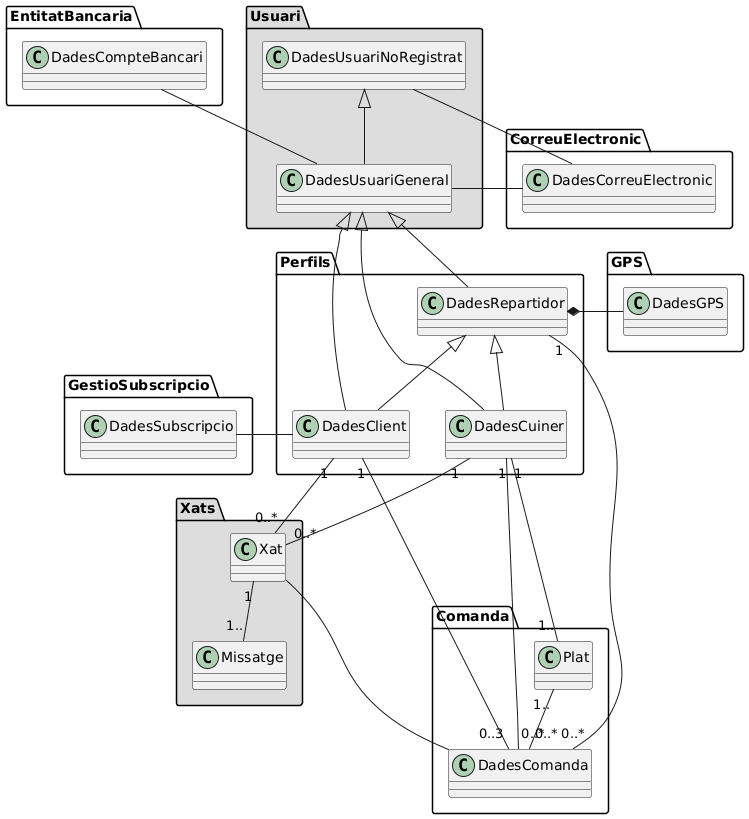
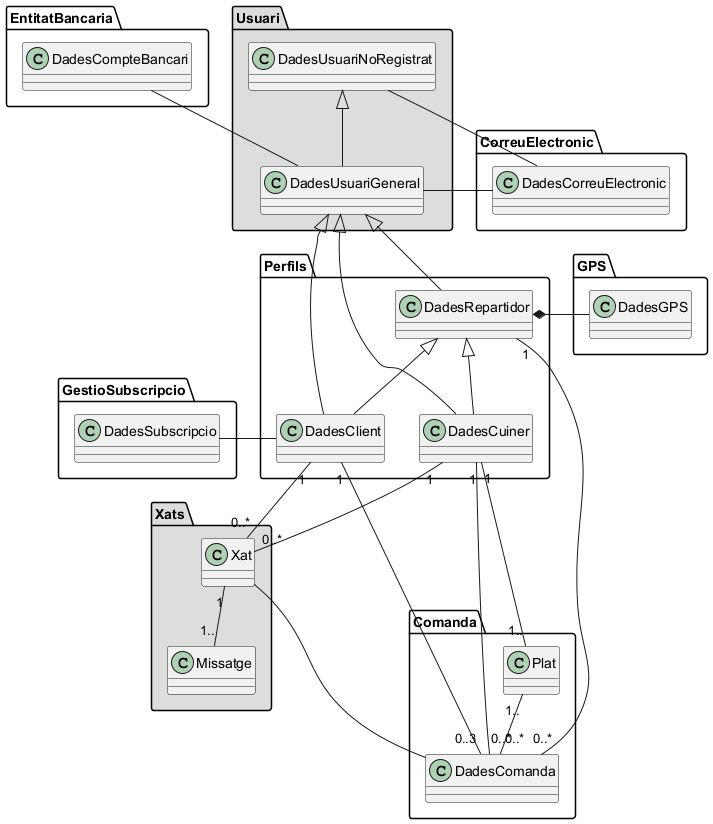
Diagrama Classes General fet

diff --git a/documents/Diagrames/Classes/GENERAL/DC General 2.5.md b/documents/Diagrames/Classes/GENERAL/DC General 2.5.md
@@ -16,7 +16,6 @@ class DadesClient
 }
 
 namespace Comanda {
-class Ingredient
 class Plat
 class DadesComanda
 }
@@ -26,11 +25,22 @@ namespace Xats {
 class Xat
 }
 class Missatge
-} 
+}
+
+namespace GestioSubscripcio {
+class DadesSubscripcio
+}
 
 namespace Usuari{
 class DadesUsuariGeneral
 }
+
+namespace CorreuElectronic {
+class DadesCorreuElectronic
+}
+
+DadesClient -left- DadesSubscripcio
+
 
 DadesUsuariGeneral <|-down- DadesRepartidor
 DadesUsuariGeneral <|-down- DadesCuiner
@@ -38,13 +48,16 @@ DadesUsuariGeneral <|-down- DadesClient
 DadesRepartidor <|-down- DadesClient
 DadesRepartidor <|-down- DadesCuiner
 
-DadesComanda -- Xat
+DadesUsuariGeneral - DadesCorreuElectronic
+DadesComanda -left- Xat
 
 DadesCuiner "1" -down- "1.." Plat
 DadesClient "1" --down-- "0..3" DadesComanda
 DadesRepartidor "1" --down-- "0..*" DadesComanda
 DadesCuiner "1" -- "0..*" DadesComanda
-Plat "1.." -down-o "0..*" DadesComanda
-Xat "1" *- "1..*" Missatge
-Plat "1" *-- "1..*" Ingredient
+Plat "1.." -down- "0..*" DadesComanda
+Xat "1" *-- "1..*" Missatge
+
+DadesClient "1" -down- "0..*" Xat
+DadesCuiner "1" -down- "0..*" Xat
 @enduml
